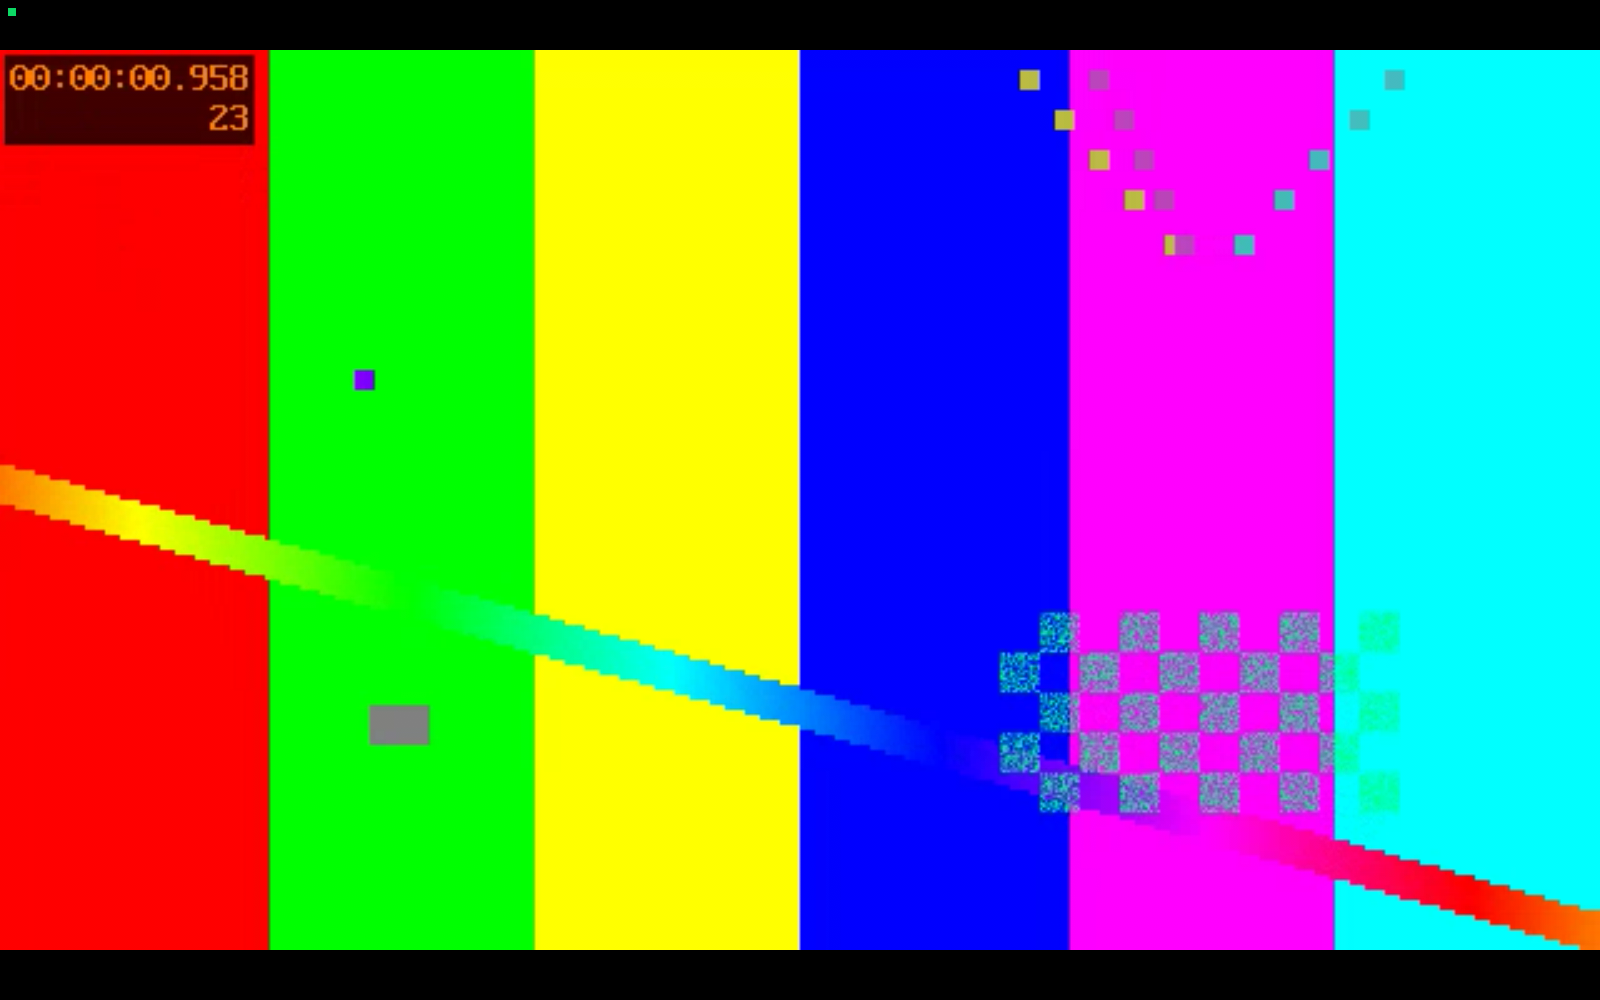
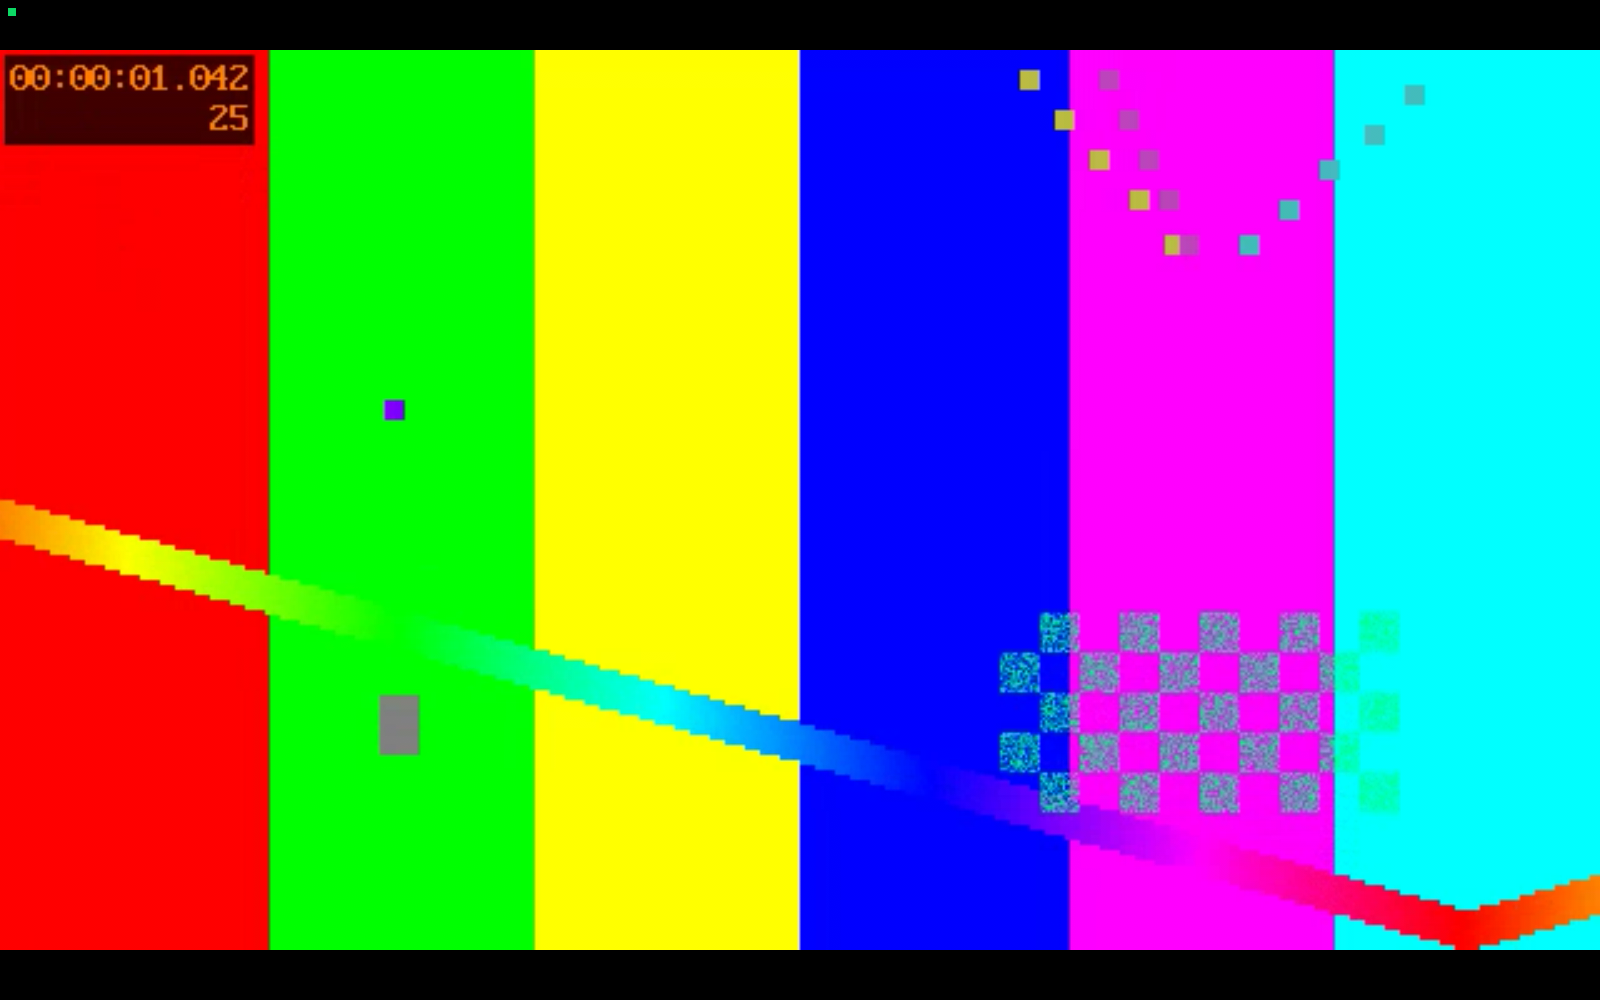
Refresh Linux mpv playback evidence with observed latency

diff --git a/docs/qualification/gtk-mpv-482/README.md b/docs/qualification/gtk-mpv-482/README.md
@@ -1,16 +1,18 @@
 # Linux mpv render-thread qualification
 
-The compiled Couch app at `6da32a77aecba078b0e661f0fc03fcaa7f9a67e4` passed `TAURI_VIDEO_TELEMETRY=1 bun run test:linux --mpv-threading` on Ubuntu 24.04 ARM64 under Docker, Xvfb and a PulseAudio null sink. The run built the Tauri app and Bun sidecar from that immutable revision. The ordinary Bun checks, Rust native tests and paired-controller smoke also passed.
+The compiled Couch app at `62b136876d0fdcf10709a1761ed4a4637de8758f` passed `TAURI_VIDEO_TELEMETRY=1 bun run test:linux --mpv-threading` on Ubuntu 24.04 ARM64 under Docker, Xvfb and a PulseAudio null sink. The run built the Tauri app and Bun sidecar from that immutable revision. The ordinary Bun checks, Rust native tests and paired-controller smoke also passed.
 
 The paired controller played a generated 640 x 360 video, sought three times, collected diagnostics while playback advanced, replaced it with a second queue entry, then stopped. A stale seek after Stop did not revive the retired playback. The queue remained stopped across app restart. The two X11 captures show [initial video pixels](initial-video.png) and [replacement video pixels](replacement-video.png) inside the GtkGLArea with Couch controls visible after replacement.
 
-| Operation | Paired-controller acknowledgement |
-| --- | ---: |
-| Seek to 4, 8 and 2 seconds | 0.39, 0.30 and 0.37 ms |
-| Replacement Play | 3.38 ms |
-| Stop | 3.43 ms |
-| Diagnostics export HTTP request | 436.95 ms |
+| Operation | Controller acknowledgement | Observed playback state |
+| --- | ---: | ---: |
+| Seek to 4, 8 and 2 seconds | 0.33, 0.31 and 0.31 ms | 51.27, 51.02 and 54.12 ms |
+| Replacement Play | 3.80 ms | 2,108.82 ms |
+| Stop | 3.20 ms | 55.48 ms |
+| Diagnostics export HTTP request | 423.56 ms | n/a |
 
-The [machine-readable receipt](receipt.json) records each sample. Render telemetry rose from 3 to 57 presented frames, reached 25.71 measured FPS and reported zero dropped frames. With libmpv warning events subscribed and the native log truncated before launch, no `mpv_render_context_render() not being called or stuck` message appeared. The pixel assertions passed for both captures.
+Acknowledgement times measure WebSocket command replies. Observed times include the next state update; replacement also includes media startup. Diagnostics measures completion of the HTTP export request.
+
+The [machine-readable receipt](receipt.json) records each sample. Render telemetry rose from 3 to 62 presented frames, reached 25.22 measured FPS and reported zero dropped frames. With libmpv warning events subscribed and the native log truncated before launch, no `mpv_render_context_render() not being called or stuck` message appeared. The pixel assertions passed for both captures.
 
 This is actual GtkGLArea/libmpv playback with software rendering. It does not establish physical TV, speaker, Wayland or hardware-decoder behavior.
